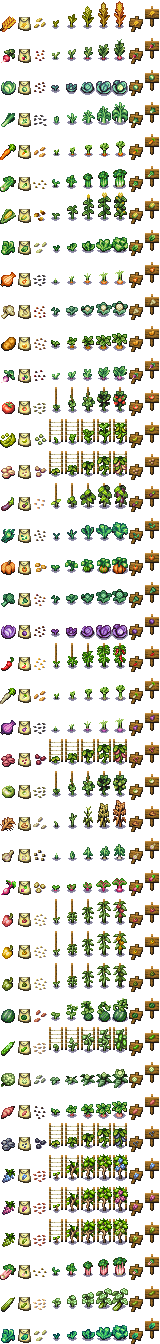
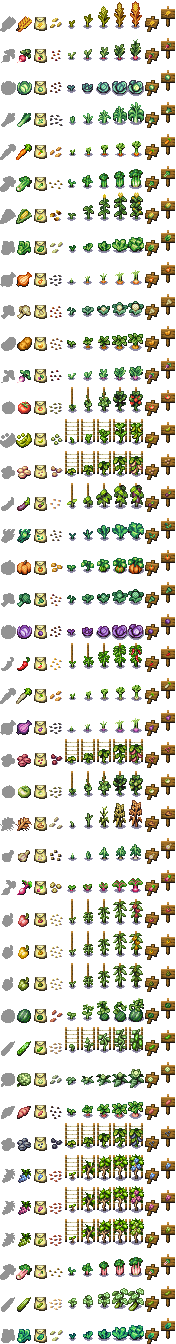
문병무: 폰트 대충 맞춤

diff --git a/EngineCore/Level.cpp b/EngineCore/Level.cpp
@@ -17,8 +17,7 @@ ULevel::ULevel()
 
 ULevel::~ULevel()
 {
-	{
-				
+	{		
 		std::list<AActor*>::iterator StartIter = BeginPlayList.begin();
 		std::list<AActor*>::iterator EndIter = BeginPlayList.end();
 
@@ -28,8 +27,6 @@ ULevel::~ULevel()
 			delete CurActor;
 		}
 	}
-
-
 
 	std::list<AActor*>::iterator StartIter = AllActors.begin();
 	std::list<AActor*>::iterator EndIter = AllActors.end();
@@ -61,13 +58,9 @@ void ULevel::BeginPlayCheck()
 		BeginPlayList.clear();
 
 		Renderers;
-
-				AActor::ComponentBeginPlay();
-
+		AActor::ComponentBeginPlay();
 		Renderers;
 	}
-
-
 }
 
 void ULevel::LevelChangeStart()
@@ -82,8 +75,7 @@ void ULevel::LevelChangeStart()
 			for (; StartIter != EndIter; ++StartIter)
 			{
 				AActor* CurActor = *StartIter;
-
-								CurActor->LevelChangeStart();
+				CurActor->LevelChangeStart();
 			}
 		}
 
@@ -94,12 +86,10 @@ void ULevel::LevelChangeStart()
 			for (; StartIter != EndIter; ++StartIter)
 			{
 				AActor* CurActor = *StartIter;
-
-								CurActor->LevelChangeStart();
+				CurActor->LevelChangeStart();
 			}
 		}
 	}
-
 }
 
 void ULevel::LevelChangeEnd()
@@ -112,7 +102,6 @@ void ULevel::LevelChangeEnd()
 			for (; StartIter != EndIter; ++StartIter)
 			{
 				AActor* CurActor = *StartIter;
-
 				CurActor->LevelChangeEnd();
 			}
 		}
@@ -124,8 +113,7 @@ void ULevel::LevelChangeEnd()
 			for (; StartIter != EndIter; ++StartIter)
 			{
 				AActor* CurActor = *StartIter;
-
-								CurActor->LevelChangeEnd();
+				CurActor->LevelChangeEnd();
 			}
 		}
 	}
@@ -157,12 +145,10 @@ void ULevel::Tick(float _DeltaTime)
 void ULevel::Render(float _DeltaTime)
 {
 	ScreenClear();
-
-		
 		
 	if (true == IsCameraToMainPawn)
 	{
-				CameraPos = MainPawn->GetTransform().Location + CameraPivot;
+		CameraPos = MainPawn->GetTransform().Location + CameraPivot;
 	}
 
 
@@ -202,9 +188,9 @@ void ULevel::Collision(float _DeltaTime)
 		int Left = Data.Left;
 		int Right = Data.Right;
 		
-				std::list<class U2DCollision*>& LeftList = CheckCollisions[Left];
+		std::list<class U2DCollision*>& LeftList = CheckCollisions[Left];
 
-				std::list<class U2DCollision*>& RightList = Collisions[Right];
+		std::list<class U2DCollision*>& RightList = Collisions[Right];
 
 		std::list<class U2DCollision*>::iterator StartLeftIter = LeftList.begin();
 		std::list<class U2DCollision*>::iterator EndLeftIter = LeftList.end();
@@ -245,7 +231,7 @@ void ULevel::Collision(float _DeltaTime)
 
 void ULevel::Release(float _DeltaTime)
 {
-		std::list<AActor*>::iterator StartIter = AllActors.begin();
+	std::list<AActor*>::iterator StartIter = AllActors.begin();
 	std::list<AActor*>::iterator EndIter = AllActors.end();
 
 	for (; StartIter != EndIter; ++StartIter)
@@ -265,7 +251,7 @@ void ULevel::Release(float _DeltaTime)
 			std::list<class U2DCollision*>::iterator CollisionStartIter = CollisionList.begin();
 			std::list<class U2DCollision*>::iterator CollisionEndIter = CollisionList.end();
 
-						for (; CollisionStartIter != CollisionEndIter; )
+			for (; CollisionStartIter != CollisionEndIter; )
 			{
 				if (false == (*CollisionStartIter)->IsDestroy())
 				{
@@ -273,7 +259,7 @@ void ULevel::Release(float _DeltaTime)
 					continue;
 				}
 
-																CollisionStartIter = CollisionList.erase(CollisionStartIter);
+				CollisionStartIter = CollisionList.erase(CollisionStartIter);
 			}
 		}
 	}
@@ -289,7 +275,7 @@ void ULevel::Release(float _DeltaTime)
 			std::list<class U2DCollision*>::iterator CollisionStartIter = CollisionList.begin();
 			std::list<class U2DCollision*>::iterator CollisionEndIter = CollisionList.end();
 
-						for (; CollisionStartIter != CollisionEndIter; )
+			for (; CollisionStartIter != CollisionEndIter; )
 			{
 				if (false == (*CollisionStartIter)->IsDestroy())
 				{
@@ -297,7 +283,7 @@ void ULevel::Release(float _DeltaTime)
 					continue;
 				}
 
-																CollisionStartIter = CollisionList.erase(CollisionStartIter);
+				CollisionStartIter = CollisionList.erase(CollisionStartIter);
 			}
 		}
 	}
@@ -313,7 +299,7 @@ void ULevel::Release(float _DeltaTime)
 			std::list<class USpriteRenderer*>::iterator RenderStartIter = RendererList.begin();
 			std::list<class USpriteRenderer*>::iterator RenderEndIter = RendererList.end();
 
-						for (; RenderStartIter != RenderEndIter; )
+			for (; RenderStartIter != RenderEndIter; )
 			{
 				if (false == (*RenderStartIter)->IsDestroy())
 				{
@@ -321,7 +307,7 @@ void ULevel::Release(float _DeltaTime)
 					continue;
 				}
 
-																RenderStartIter = RendererList.erase(RenderStartIter);
+				RenderStartIter = RendererList.erase(RenderStartIter);
 			}
 		}
 	}
@@ -334,7 +320,6 @@ void ULevel::Release(float _DeltaTime)
 		{
 			AActor* CurActor = *StartIter;
 
-
 			if (false == CurActor->IsDestroy())
 			{
 				CurActor->ReleaseCheck(_DeltaTime);
@@ -342,7 +327,7 @@ void ULevel::Release(float _DeltaTime)
 				continue;
 			}
 
-						delete CurActor;
+			delete CurActor;
 			StartIter = AllActors.erase(StartIter);
 		}
 	}
@@ -359,7 +344,7 @@ void ULevel::ScreenClear()
 
 void ULevel::DoubleBuffering()
 {
-		UEngineWindow& MainWindow = UEngineAPICore::GetCore()->GetMainWindow();
+	UEngineWindow& MainWindow = UEngineAPICore::GetCore()->GetMainWindow();
 
 	UEngineWinImage* WindowImage = MainWindow.GetWindowImage();
 	UEngineWinImage* BackBufferImage = MainWindow.GetBackBuffer();
@@ -368,8 +353,7 @@ void ULevel::DoubleBuffering()
 	Trans.Location = MainWindow.GetWindowSize().Half();
 	Trans.Scale = MainWindow.GetWindowSize();
 
-		BackBufferImage->CopyToBit(WindowImage, Trans);
-
+	BackBufferImage->CopyToBit(WindowImage, Trans);
 }
 
 void ULevel::PushRenderer(class USpriteRenderer* _Renderer)
@@ -395,12 +379,7 @@ void ULevel::PushCheckCollision(class U2DCollision* _Collision)
 
 void ULevel::ChangeRenderOrder(class USpriteRenderer* _Renderer, int _PrevOrder)
 {
-	//std::vector<int> Value;
-		//Value.remove
-
-			Renderers[_PrevOrder].remove(_Renderer);
+	Renderers[_PrevOrder].remove(_Renderer);
 
 	Renderers[_Renderer->GetOrder()].push_back(_Renderer);
-
-
 }

diff --git a/ContentsProject/MenuPanelUI.h b/ContentsProject/MenuPanelUI.h
@@ -17,8 +17,9 @@ protected:
 private:
 	class USpriteRenderer* SpriteRTap = nullptr;
 	class USpriteRenderer* SpriteRResourcesBar = nullptr;
-	class USpriteRenderer* SpriteRFarmSlot[48] = {};
-	class USpriteRenderer* SpriteRFarmCrops[48] = {};
+	class USpriteRenderer* SpriteRFarmSlot[CropsCount] = {};
+	class USpriteRenderer* SpriteRFarmCrops[CropsCount] = {};
+	class USpriteRenderer* SpriteRFarmCoin[CropsCount] = {};
 	
 };
 

diff --git a/ContentsProject/MainContentsCore.cpp b/ContentsProject/MainContentsCore.cpp
@@ -58,9 +58,8 @@ void MainContentsCore::BeginPlay()
 		}
 	}
 
-	UImageManager::GetInst().CuttingSprite("Text.bmp", { 16, 32 });
+	UImageManager::GetInst().CuttingSprite("Text.png", { 16, 32 });
 	UImageManager::GetInst().CuttingSprite("Crops.png", { 16, 32 });
-	UImageManager::GetInst().CuttingSprite("Crops_Lock.png", { 16, 32 });
 
 	DirectoryAdd("", "TileMap");
 	DirectoryAdd("", "Title");

diff --git a/ContentsProject/Building.h b/ContentsProject/Building.h
@@ -6,6 +6,8 @@
 #include <EngineCore/EngineAPICore.h>
 #include "ContentsEnum.h"
 
+static const int CropsCount = 44;
+
 class ABuilding : public AActor
 {
 public:
